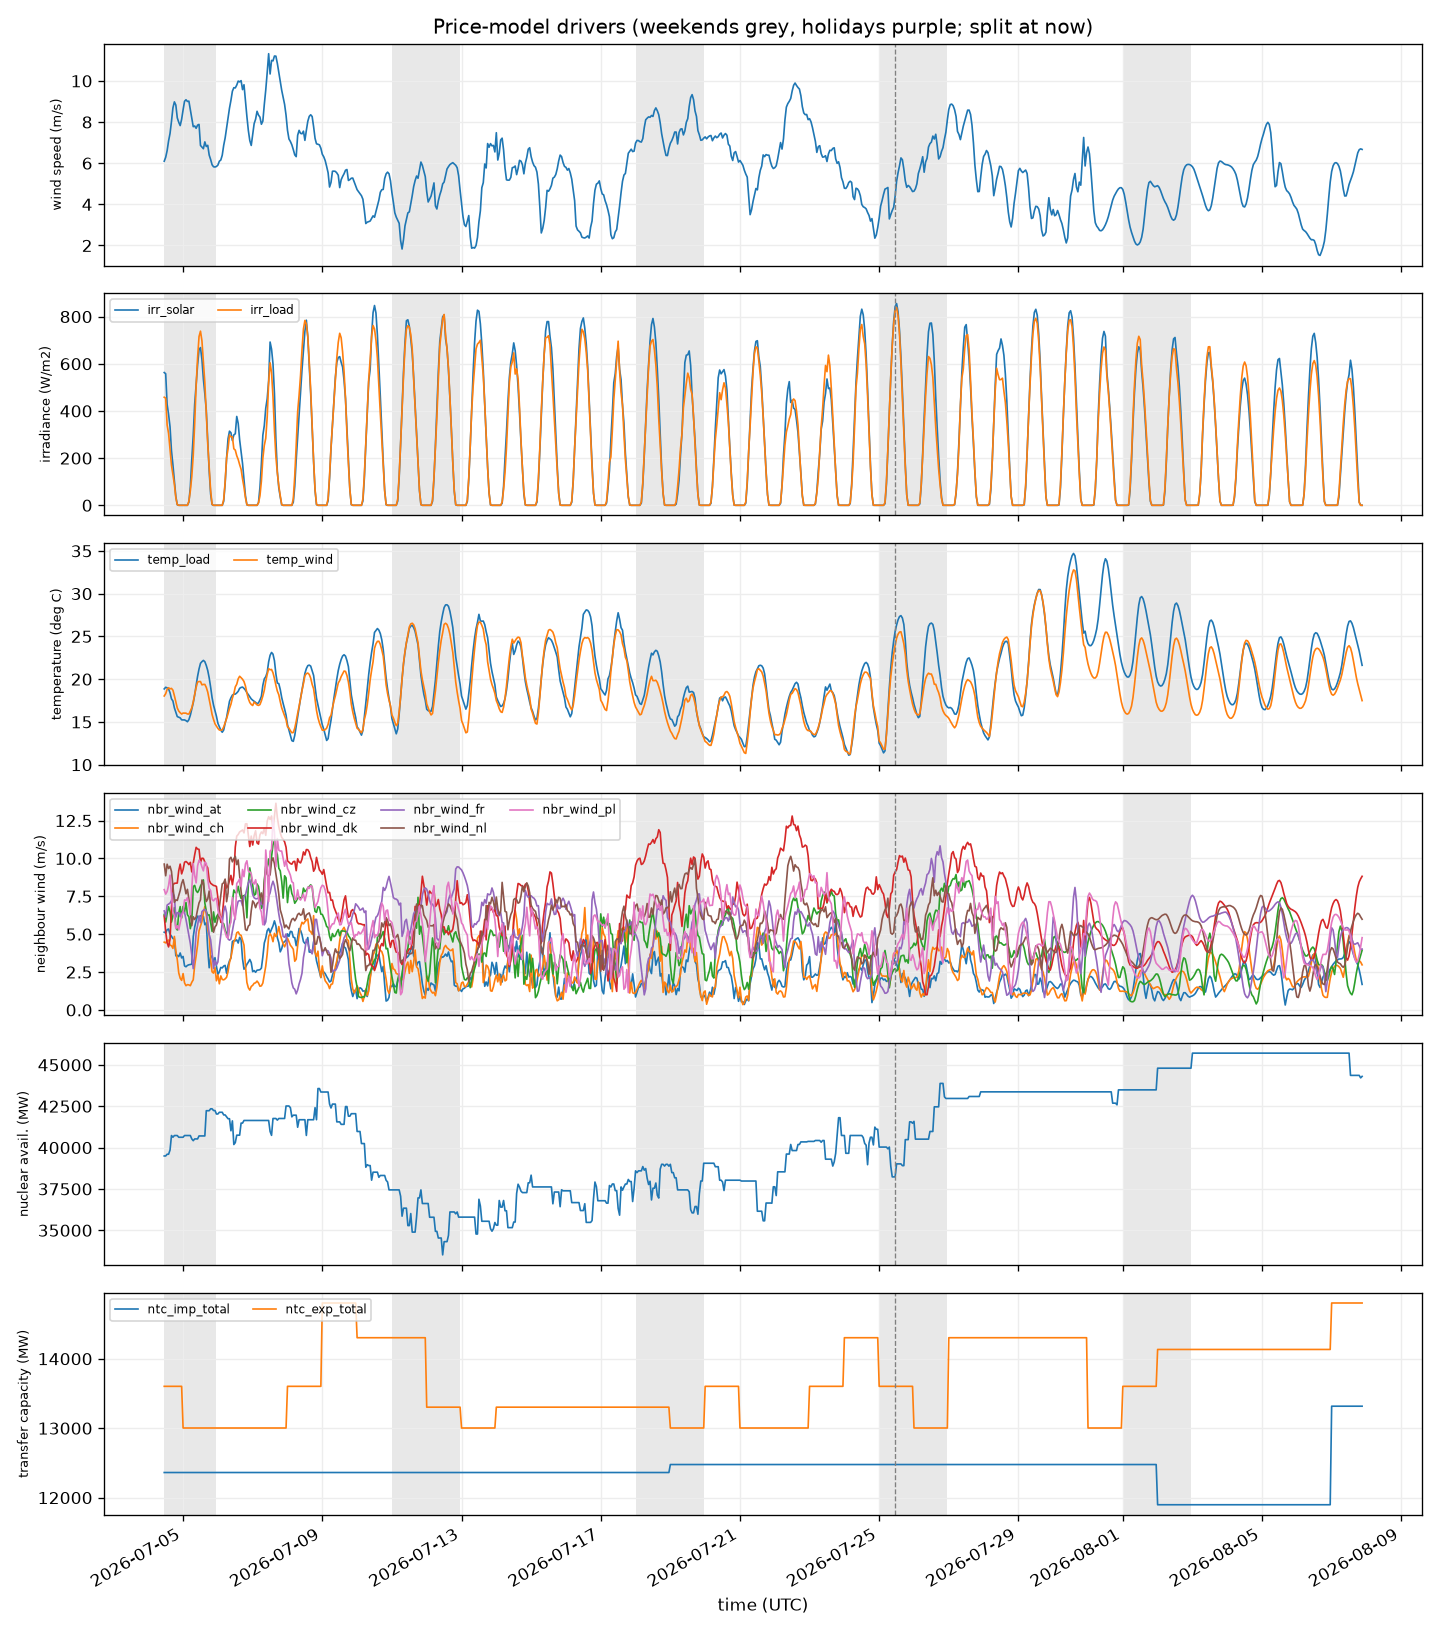
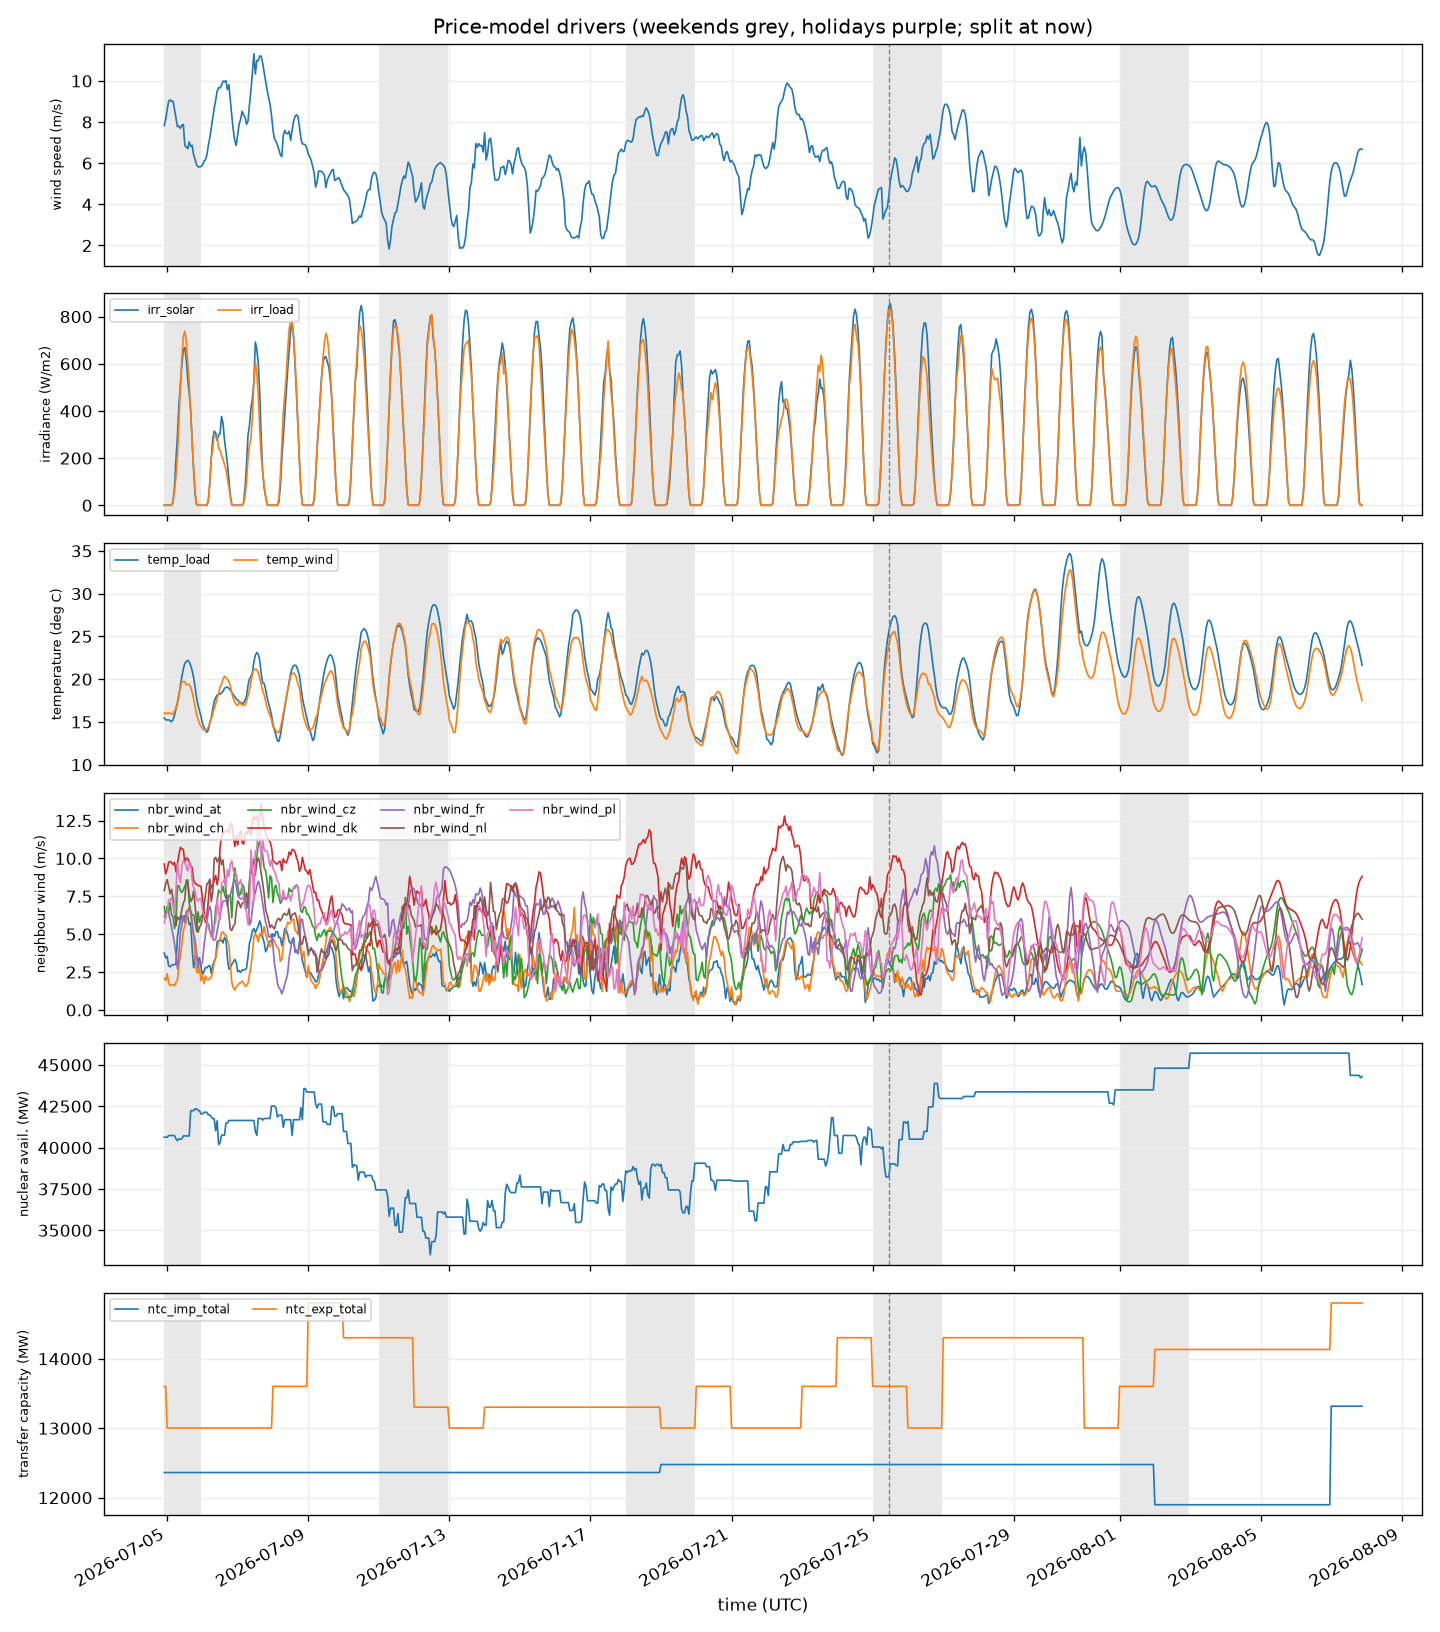
Start forecast plots at the first whole delivery day (Berlin midnight)

diff --git a/src/eex_forecast/forecast.py b/src/eex_forecast/forecast.py
@@ -172,6 +172,22 @@ def _last_complete_market_day_cut(coverage_end: pd.Timestamp | None) -> pd.Times
     return cut_market.tz_convert("UTC")
 
 
+def _first_market_day_start(times: pd.Series) -> pd.Timestamp:
+    """First Europe/Berlin midnight in the window - the start of a German delivery day.
+
+    The read window begins at ``now - history_days``, i.e. an arbitrary hour of day, so a plot drawn from
+    it starts mid-day. Snapping to the first delivery-day boundary (Berlin midnight = 22:00 UTC in summer,
+    23:00 UTC in winter) makes plots begin on a whole market day, mirroring the trailing
+    ``_last_complete_market_day_cut``. Returns a UTC timestamp present in the hourly window.
+    """
+    start_market = times.min().tz_convert(MARKET_TIMEZONE)
+    day_start = start_market.normalize()
+    if day_start < start_market:  # window opened after midnight -> the next delivery day is the first whole one
+        day_start = day_start + pd.Timedelta(days=1)
+    first_start: pd.Timestamp = day_start.tz_convert("UTC")
+    return first_start
+
+
 def run_forecast(
     db_path: str,
     *,
@@ -240,9 +256,14 @@ def run_forecast(
     result.to_csv(csv_path, index=False)
     logger.info("Wrote %d rows to %s", len(result), csv_path)
     if plot:
-        plot_forecast(frame, times, now, FORECAST_DIR / "forecast.png")
-        plot_fundamentals(frame, times, now, FORECAST_DIR / "fundamentals.png")
-        plot_drivers(frame, times, now, FORECAST_DIR / "drivers.png")
+        # Plot from the first whole delivery day (Berlin midnight), not the arbitrary hour the read window
+        # opened on; CSV/DB above keep the full window (the leading hours still feed the price lag).
+        view = (times >= _first_market_day_start(times)).to_numpy()
+        plot_frame = frame[view].reset_index(drop=True)
+        plot_times = pd.to_datetime(plot_frame[TIMESTAMP], utc=True)
+        plot_forecast(plot_frame, plot_times, now, FORECAST_DIR / "forecast.png")
+        plot_fundamentals(plot_frame, plot_times, now, FORECAST_DIR / "fundamentals.png")
+        plot_drivers(plot_frame, plot_times, now, FORECAST_DIR / "drivers.png")
     return result
 
 

diff --git a/tests/test_forecast.py b/tests/test_forecast.py
@@ -12,6 +12,7 @@ from tests.conftest import make_timeseries
 from eex_forecast import forecast as forecast_ops
 from eex_forecast.db import write_frame
 from eex_forecast.forecast import (
+    _first_market_day_start,
     _forecast_split,
     _forward_only,
     _last_complete_market_day_cut,
@@ -113,6 +114,18 @@ def test_forward_only_blanks_history_keeps_forecast() -> None:
     assert forward.iloc[:3].isna().all()
     assert forward.iloc[3:].tolist() == [13.0, 14.0, 15.0]
     assert values.iloc[0] == 10.0  # the input is not mutated (a copy is returned)
+
+
+def test_first_market_day_start_snaps_to_berlin_midnight() -> None:
+    # Summer window opening mid-day (10:00 UTC): first Berlin midnight is the next 22:00 UTC.
+    summer = pd.Series(pd.date_range("2026-07-05 10:00", periods=48, freq="h", tz="UTC"))
+    assert _first_market_day_start(summer) == pd.Timestamp("2026-07-05 22:00", tz="UTC")
+    # Winter (CET = UTC+1): Berlin midnight is 23:00 UTC.
+    winter = pd.Series(pd.date_range("2026-01-05 10:00", periods=48, freq="h", tz="UTC"))
+    assert _first_market_day_start(winter) == pd.Timestamp("2026-01-05 23:00", tz="UTC")
+    # Already on a delivery-day boundary: kept as-is, not bumped a day forward.
+    on_edge = pd.Series(pd.date_range("2026-07-05 22:00", periods=48, freq="h", tz="UTC"))
+    assert _first_market_day_start(on_edge) == pd.Timestamp("2026-07-05 22:00", tz="UTC")
 
 
 def test_forecast_split_is_last_actual_not_now() -> None:
